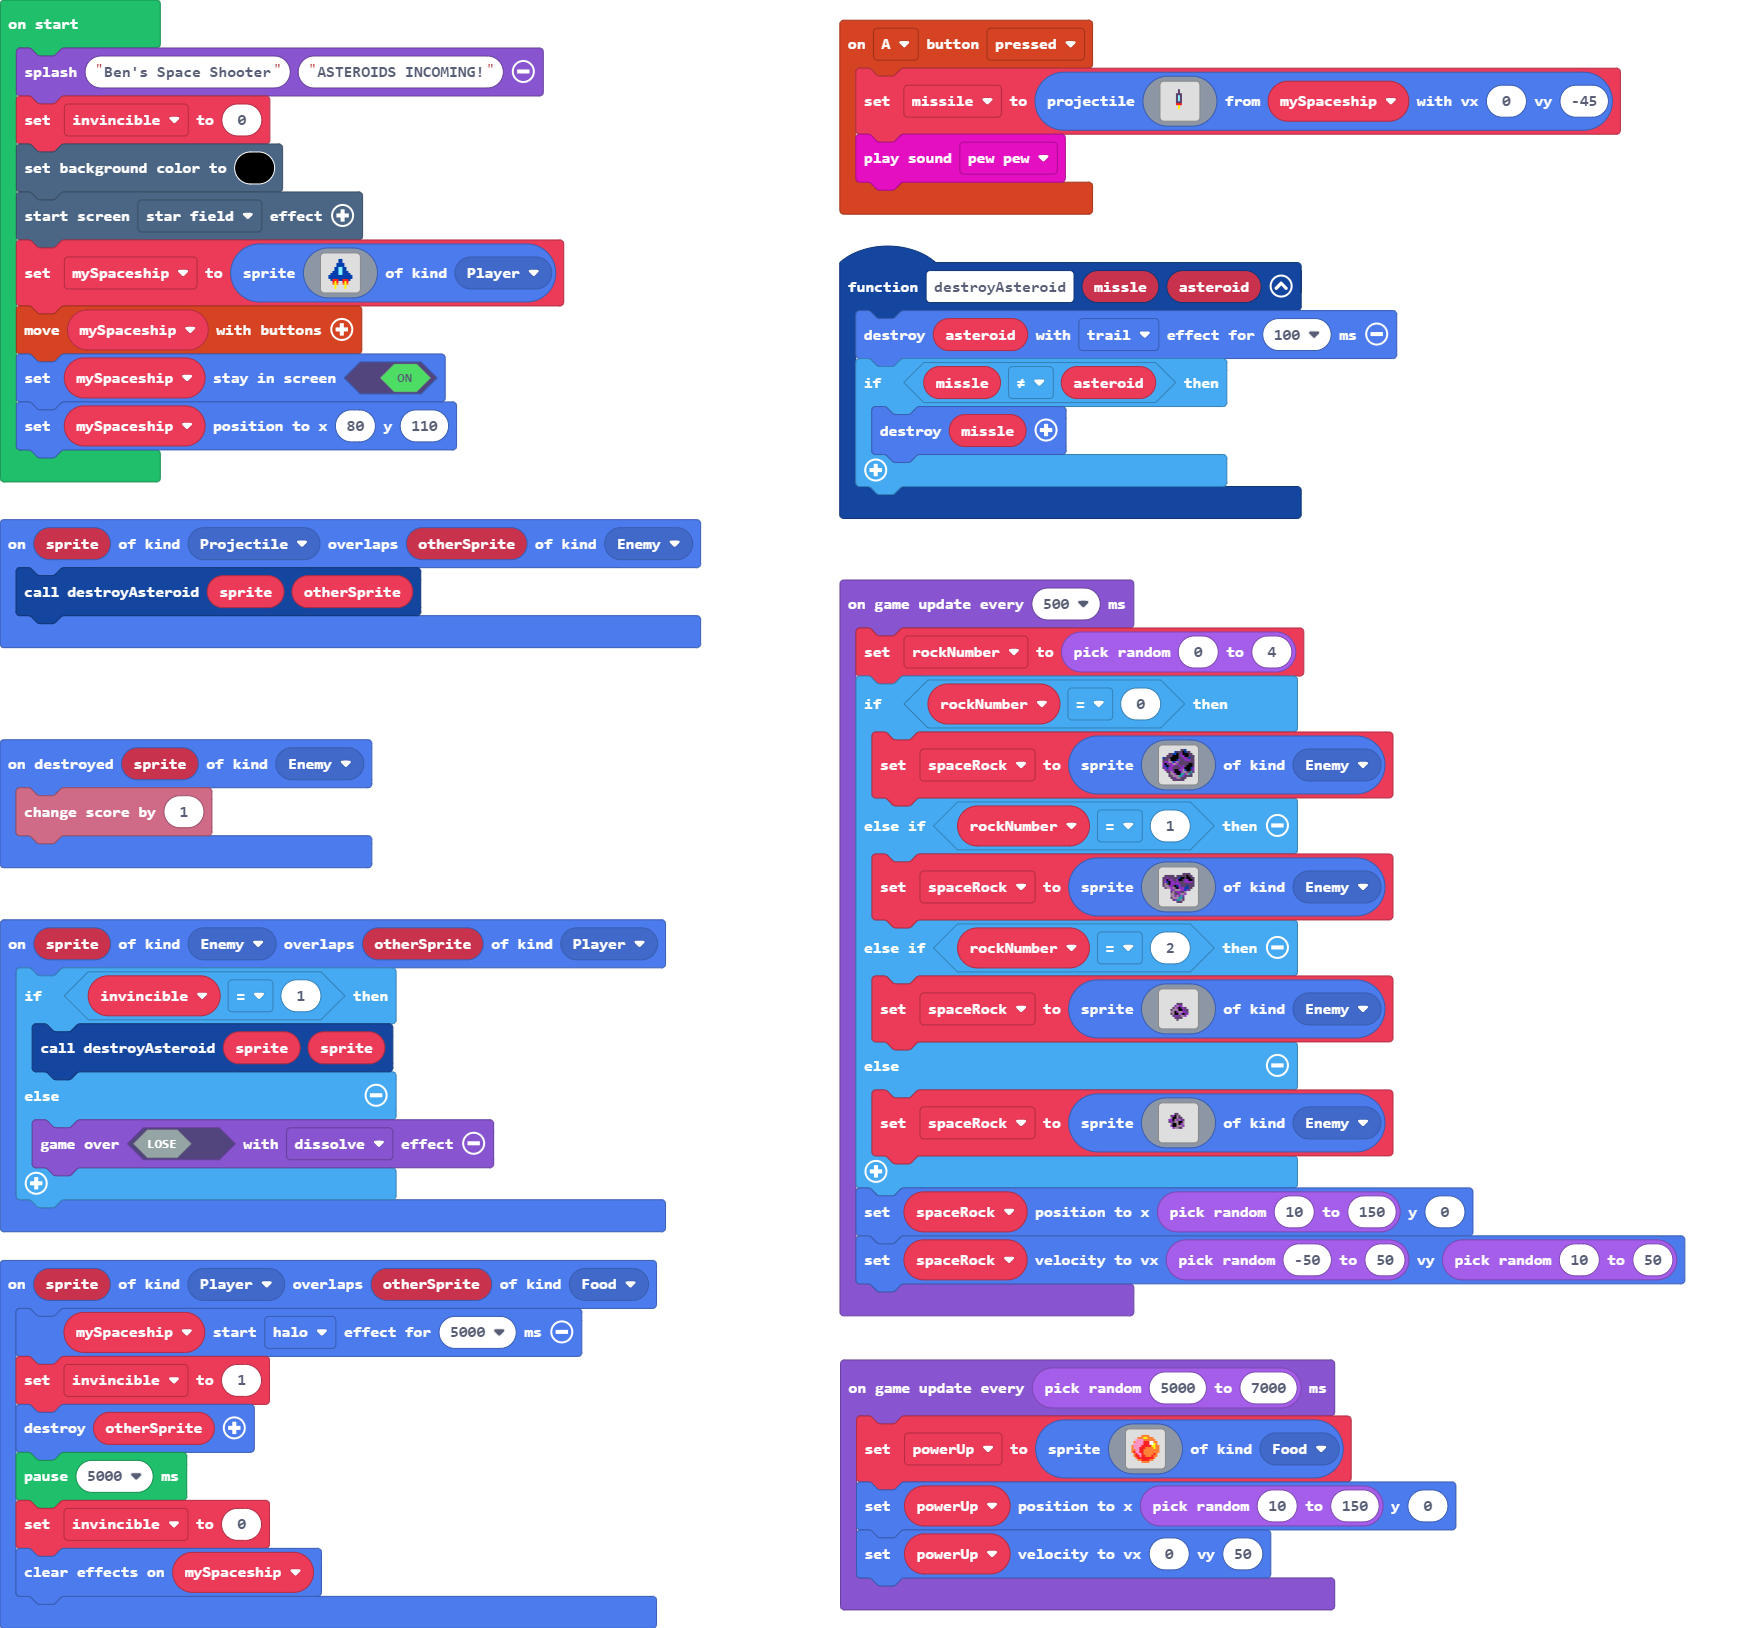
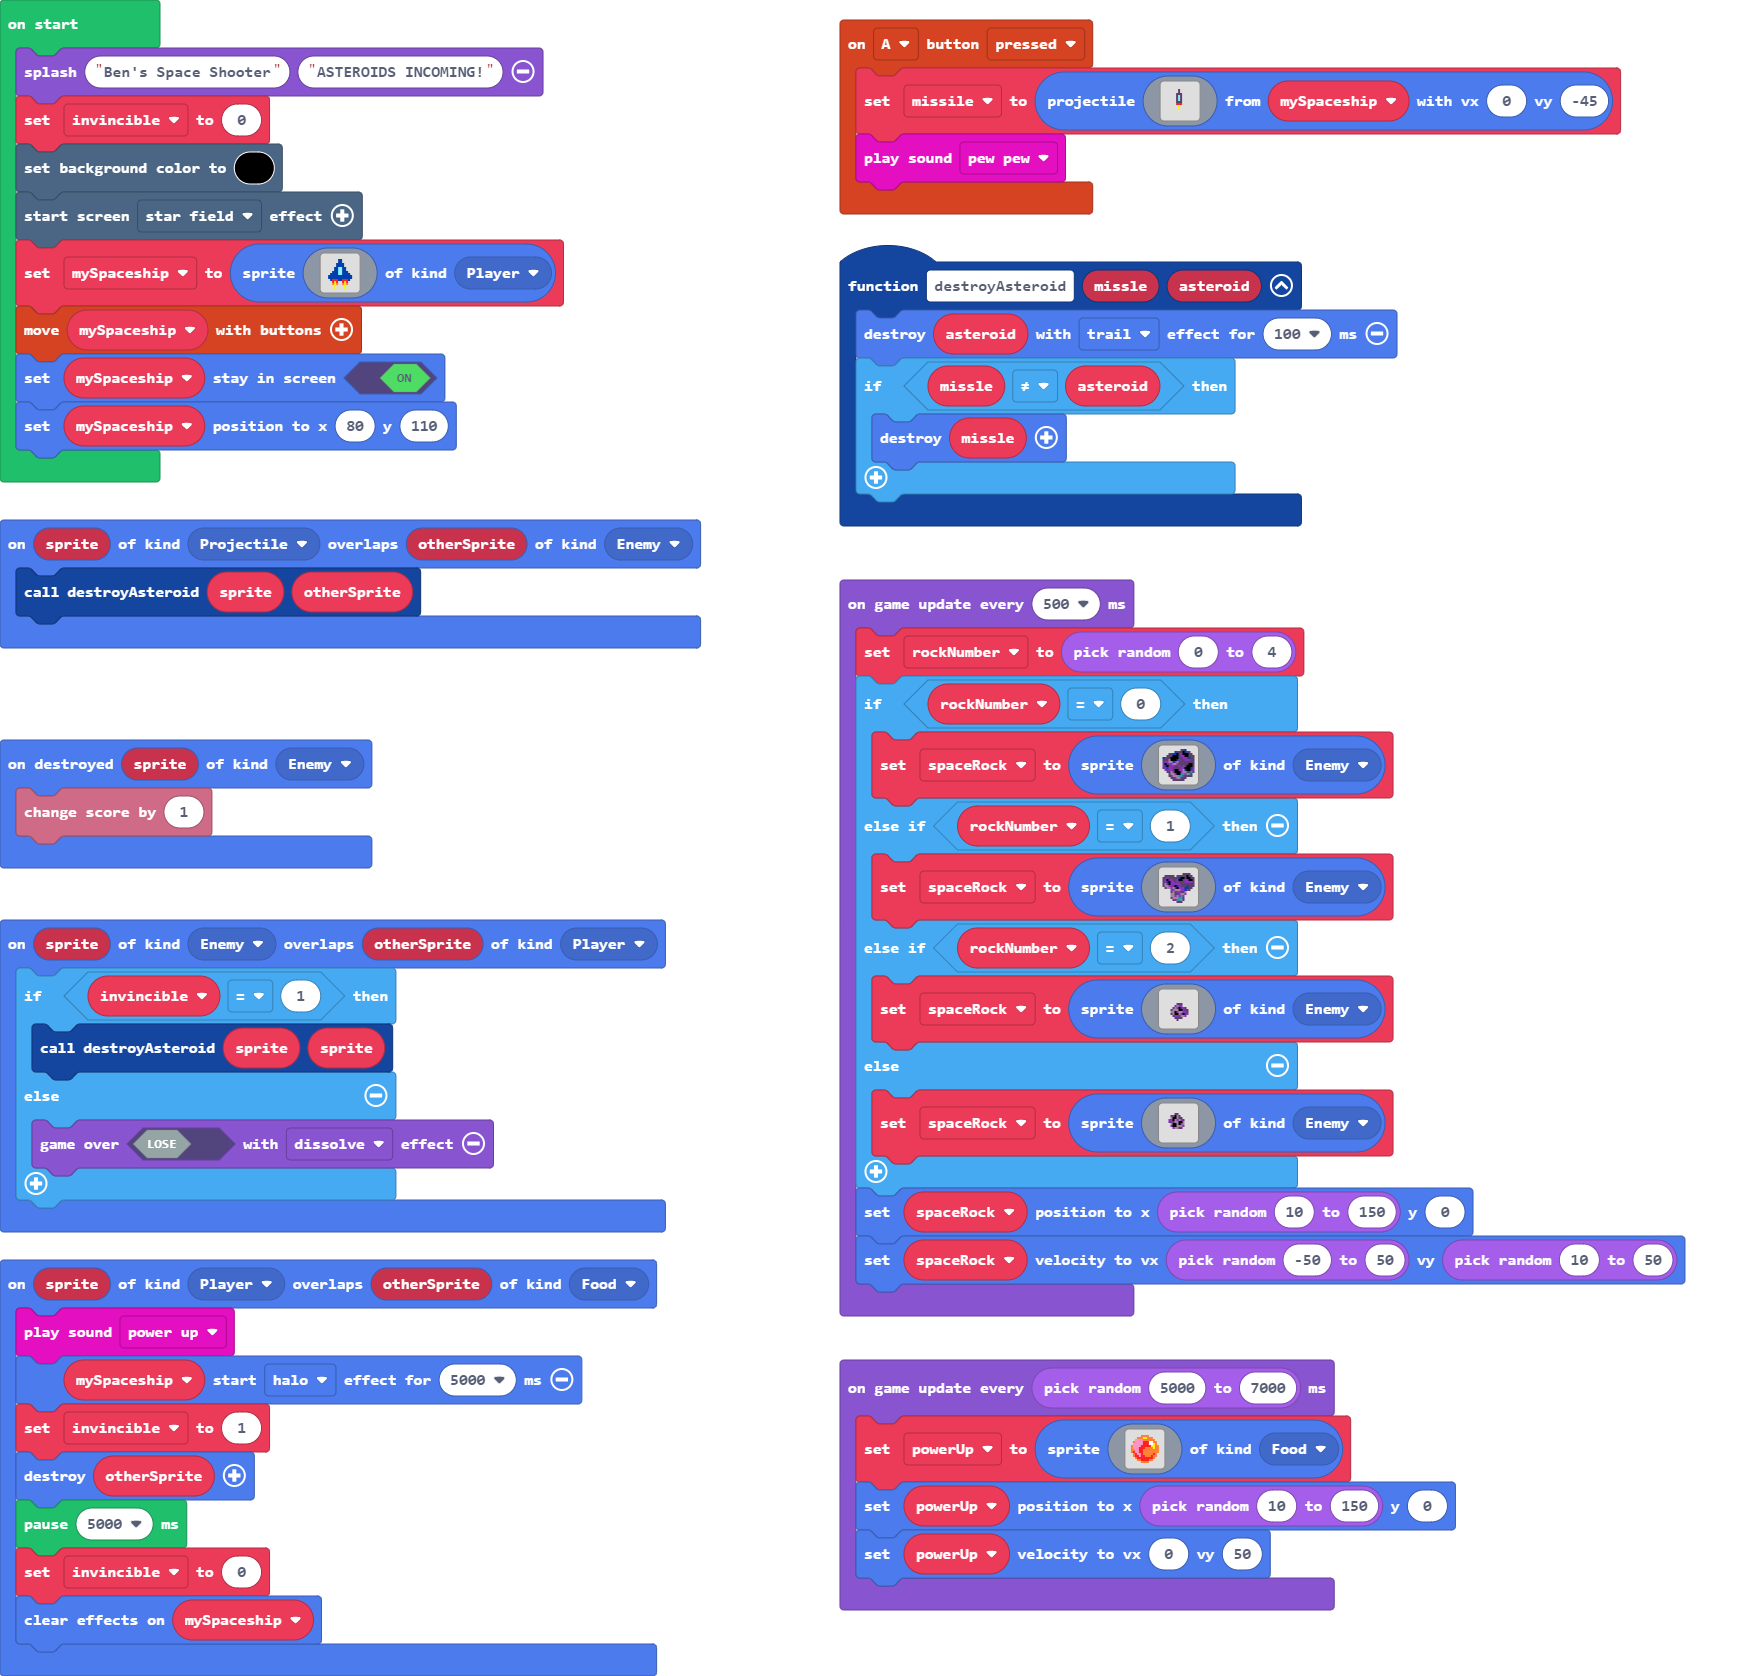
added power up sound

diff --git a/main.ts b/main.ts
@@ -33,6 +33,7 @@ sprites.onOverlap(SpriteKind.Enemy, SpriteKind.Player, function (sprite, otherSp
     }
 })
 sprites.onOverlap(SpriteKind.Player, SpriteKind.Food, function (sprite, otherSprite) {
+    music.powerUp.play()
     mySpaceship.startEffect(effects.halo, 5000)
     invincible = 1
     otherSprite.destroy()
